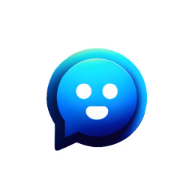
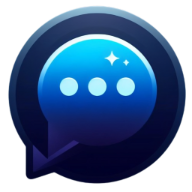
Update images and fix code formatting

diff --git a/app/(site)/components/AuthForm.tsx b/app/(site)/components/AuthForm.tsx
@@ -61,11 +61,11 @@ const AuthForm = () => {
       signIn("credentials", { ...data, redirect: false })
         .then((callback) => {
           if (callback?.error) {
-            toast.error("Invalid Credentials 😔");
+            toast.error("Invalid Credentials😔");
           }
 
           if (callback?.ok && !callback?.error) {
-            toast.success("Logged in 👍");
+            toast.success("Signed in👍");
             router.push("/users");
           }
         })
@@ -83,7 +83,7 @@ const AuthForm = () => {
         }
 
         if (callback?.ok && !callback?.error) {
-          toast.success("Logged in 👍");
+          toast.success("Logged in👍");
         }
       })
       .finally(() => setIsLoading(false));
@@ -145,7 +145,7 @@ const AuthForm = () => {
           />
           <div>
             <Button disabled={isLoading} fullWidth type="submit">
-              {variant === "LOGIN" ? "Login" : "Register"}
+              {variant === "LOGIN" ? "Sign in" : "Sign up"}
             </Button>
           </div>
         </form>
@@ -191,7 +191,7 @@ const AuthForm = () => {
           </div>
 
           <div onClick={toggleVariant} className="underline cursor-pointer">
-            {variant === "LOGIN" ? "Create an account" : "Login"}
+            {variant === "LOGIN" ? "Create an account" : "Sign in"}
           </div>
         </div>
       </div>

diff --git a/app/conversations/[conversationId]/components/Body.tsx b/app/conversations/[conversationId]/components/Body.tsx
@@ -27,7 +27,7 @@ const Body: React.FC<BodyProps> = ({ initialMessages }) => {
     pusherClient.subscribe(conversationId);
     bottomRef?.current?.scrollIntoView({ behavior: "smooth" });
 
-    const messageHandler = (message: FullMessageType) => {
+    const newMessageHandler = (message: FullMessageType) => {
       axios.post(`/api/conversations/${conversationId}/seen`);
 
       setMessages((current) => {
@@ -53,12 +53,12 @@ const Body: React.FC<BodyProps> = ({ initialMessages }) => {
       );
     };
 
-    pusherClient.bind("messages:new", messageHandler);
+    pusherClient.bind("messages:new", newMessageHandler);
     pusherClient.bind("message:update", updateMessageHandler);
 
     return () => {
       pusherClient.unsubscribe(conversationId);
-      pusherClient.unbind("messages:new", messageHandler);
+      pusherClient.unbind("messages:new", newMessageHandler);
       pusherClient.unbind("message:update", updateMessageHandler);
     };
   }, [conversationId]);

diff --git a/app/conversations/components/ConversationList.tsx b/app/conversations/components/ConversationList.tsx
@@ -12,19 +12,19 @@ import { FullConversationType } from "@/types";
 import { pusherClient } from "@/libs/pusher";
 import useConversation from "@/hooks/useConversation";
 import ConversationCard from "./ConversationCard";
-import GroupChatModal from "./GroupChatModal";
+import GroupChatModal from "@/components/modals/GroupChatModal";
 
 interface ConversationListProps {
-  initialItems: FullConversationType[];
+  initialChats: FullConversationType[];
   users: User[];
 }
 
 const ConversationList: React.FC<ConversationListProps> = ({
-  initialItems,
+  initialChats,
   users,
 }) => {
   const session = useSession();
-  const [items, setItems] = useState(initialItems);
+  const [items, setItems] = useState(initialChats);
   const [isModalOpen, setIsModalOpen] = useState(false);
 
   const router = useRouter();

diff --git a/app/conversations/layout.tsx b/app/conversations/layout.tsx
@@ -1,7 +1,13 @@
+import { Metadata } from "next";
+
 import Sidebar from "@/components/sidebar/Sidebar";
 import ConversationList from "./components/ConversationList";
 import getConversations from "@/actions/getConversations";
 import getUsers from "@/actions/getUsers";
+
+export const metadata: Metadata = {
+  title: "Chats",
+};
 
 export default async function ConversationsLayout({
   children,
@@ -14,7 +20,7 @@ export default async function ConversationsLayout({
   return (
     <div className="h-full">
       <Sidebar>
-        <ConversationList initialItems={conversations} users={users} />
+        <ConversationList initialChats={conversations} users={users} />
         <div className="h-full">{children}</div>
       </Sidebar>
     </div>

diff --git a/app/layout.tsx b/app/layout.tsx
@@ -10,7 +10,10 @@ import "./globals.css";
 const inter = Inter({ subsets: ["latin"] });
 
 export const metadata: Metadata = {
-  title: "Messenger Clone",
+  title: {
+    default: "Messenger Clone",
+    template: "%s | Messenger Clone",
+  },
   description: "Messenger chat application",
   icons: {
     icon: [
@@ -23,9 +26,9 @@ export const metadata: Metadata = {
       type: "image/png",
     },
   },
-  metadataBase: new URL("https://localhost:3000/"),
+  metadataBase: new URL("https:messenger-klone.vercel.app/"),
   openGraph: {
-    url: "https://localhost:3000/",
+    url: "https:messenger-klone.vercel.app/",
     title: "Messenger Clone",
     description: "Messenger chat application",
     type: "website",

diff --git a/app/conversations/[conversationId]/components/Form.tsx b/app/conversations/[conversationId]/components/Form.tsx
@@ -1,11 +1,11 @@
 "use client";
 
 import axios from "axios";
-import useConversation from "@/hooks/useConversation";
 import { FieldValues, SubmitHandler, useForm } from "react-hook-form";
 import { CldUploadButton } from "next-cloudinary";
 import { HiPaperAirplane, HiPhoto } from "react-icons/hi2";
 
+import useConversation from "@/hooks/useConversation";
 import MessageInput from "./MessageInput";
 
 const Form = () => {
@@ -29,8 +29,8 @@ const Form = () => {
   };
 
   const handleUpload = (file: any) => {
-    axios.post(`/api//messages`, {
-      image: file?.info?.secure_url,
+    axios.post(`/api/messages`, {
+      image: file.info.secure_url,
       conversationId,
     });
   };

diff --git a/app/conversations/[conversationId]/components/ImageModal.tsx b/app/conversations/[conversationId]/components/ImageModal.tsx
@@ -18,7 +18,13 @@ const ImageModal: React.FC<ImageModalProps> = ({ src, isOpen, onClose }) => {
   return (
     <Modal isOpen={isOpen} onClose={onClose}>
       <div className="flex items-center justify-center w-80 h-80">
-        <Image className="object-cover" src={src} alt="Image" fill />
+        <Image
+          className="object-cover"
+          src={src}
+          alt="Image"
+          fill
+          sizes="(max-width: 768px) 100vw, (max-width: 1200px) 50vw, 33vw"
+        />
       </div>
     </Modal>
   );

diff --git a/components/Avatar.tsx b/components/Avatar.tsx
@@ -26,7 +26,12 @@ const Avatar: React.FC<AvatarProps> = ({ user }) => {
           md:w-11
         "
       >
-        <Image src={user?.image || "/img/placeholder.jpg"} alt="Avatar" fill />
+        <Image
+          src={user?.image || "/img/placeholder.png"}
+          alt="Avatar"
+          fill
+          sizes="(max-width: 768px) 100vw, (max-width: 1200px) 50vw, 33vw"
+        />
       </div>
       {isActive ? (
         <span

diff --git a/components/sidebar/SettingsModal.tsx b/components/sidebar/SettingsModal.tsx
@@ -97,7 +97,7 @@ const SettingsModal: React.FC<SettingsModalProps> = ({
                   <Image
                     width={48}
                     height={48}
-                    src={image || currentUser?.image || "/img/placeholder.jpg"}
+                    src={image || currentUser?.image || "/img/placeholder.png"}
                     alt="Avatar"
                   />
                   <CldUploadButton

diff --git a/app/users/components/UserCard.tsx b/app/users/components/UserCard.tsx
@@ -1,9 +1,9 @@
 "use client";
 
-import { User } from "@prisma/client";
 import axios from "axios";
-import { useRouter } from "next/navigation";
 import { useCallback, useState } from "react";
+import { useRouter } from "next/navigation";
+import { User } from "@prisma/client";
 
 import Avatar from "@/components/Avatar";
 import LoadingModal from "@/components/modals/LoadingModal";

diff --git a/app/users/layout.tsx b/app/users/layout.tsx
@@ -1,6 +1,12 @@
+import { Metadata } from "next";
+
 import getUsers from "@/actions/getUsers";
 import Sidebar from "@/components/sidebar/Sidebar";
 import UserList from "./components/UserList";
+
+export const metadata: Metadata = {
+  title: "Users",
+};
 
 export default async function UsersLayout({
   children,

diff --git a/components/AvatarGroup.tsx b/components/AvatarGroup.tsx
@@ -33,7 +33,7 @@ const AvatarGroup: React.FC<AvatarGroupProps> = ({ users = [] }) => {
         >
           <Image
             fill
-            src={user?.image || "/images/placeholder.jpg"}
+            src={user?.image || "/img/placeholder.png"}
             alt="Avatar"
           />
         </div>
